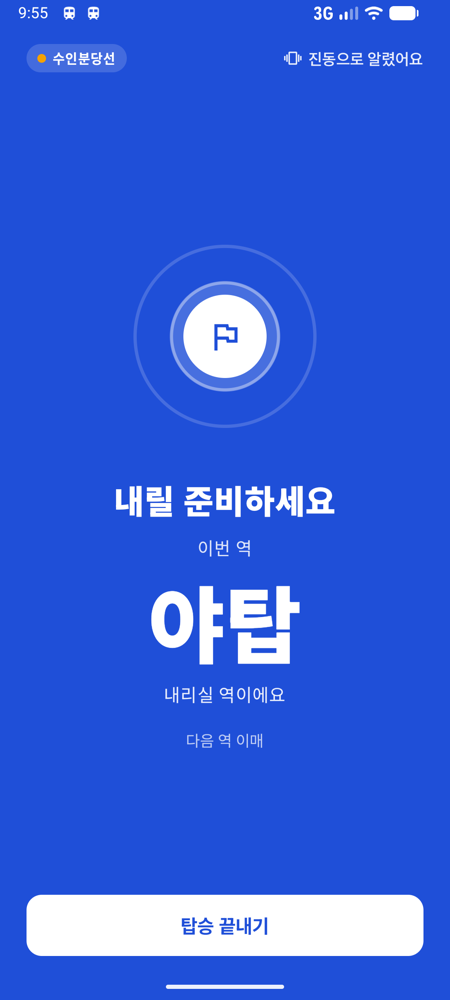
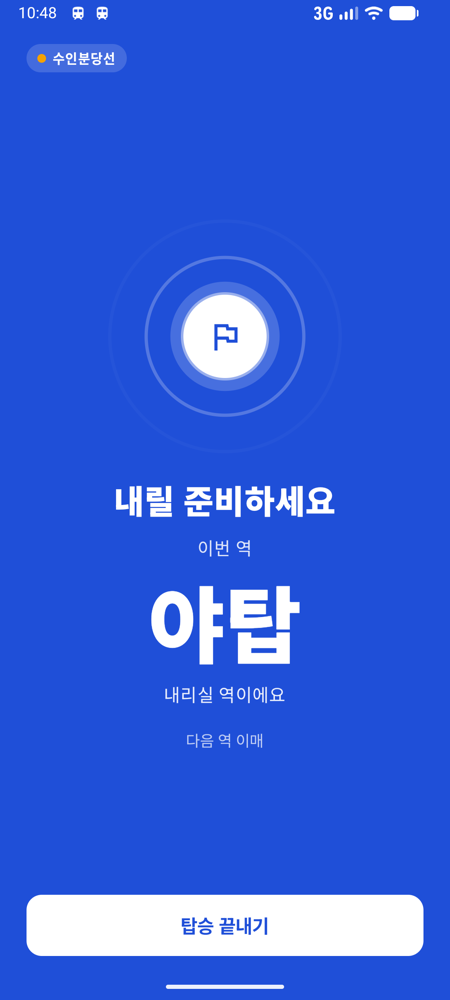
내릴 준비 화면에서 '진동으로 알렸어요' 문구 뺌(사용자 피드백: 필요 없는 말), README·스토어 사진도 다시 찍음

Changed region(s): [[0.28, 0.248, 0.7156, 0.434], [0.6222, 0.031, 0.9333, 0.062], [0.0311, 0.0, 0.2489, 0.031]]

diff --git a/app/src/main/java/com/nowstation/app/ride/ui/RideScreen.kt b/app/src/main/java/com/nowstation/app/ride/ui/RideScreen.kt
@@ -34,7 +34,6 @@ import androidx.compose.foundation.shape.RoundedCornerShape
 import androidx.compose.material.icons.Icons
 import androidx.compose.material.icons.outlined.Flag
 import androidx.compose.material.icons.outlined.Lock
-import androidx.compose.material.icons.outlined.Vibration
 import androidx.compose.material3.Button
 import androidx.compose.material3.ButtonDefaults
 import androidx.compose.material3.Icon
@@ -184,10 +183,6 @@ private fun AlightContent(ride: ActiveRide, onEnd: () -> Unit) {
     Column(Modifier.fillMaxSize().background(Brand).safeDrawingPadding().padding(horizontal = 24.dp, vertical = 16.dp)) {
         Row(verticalAlignment = Alignment.CenterVertically) {
             v.line?.let { LineChip(it, onDark = true) }
-            Spacer(Modifier.weight(1f))
-            Icon(Icons.Outlined.Vibration, contentDescription = null, tint = Color.White.copy(alpha = 0.9f), modifier = Modifier.size(16.dp))
-            Spacer(Modifier.width(6.dp))
-            Text("진동으로 알렸어요", style = MaterialTheme.typography.labelLarge, color = Color.White.copy(alpha = 0.9f))
         }
         Column(
             Modifier.weight(1f).fillMaxWidth(),
